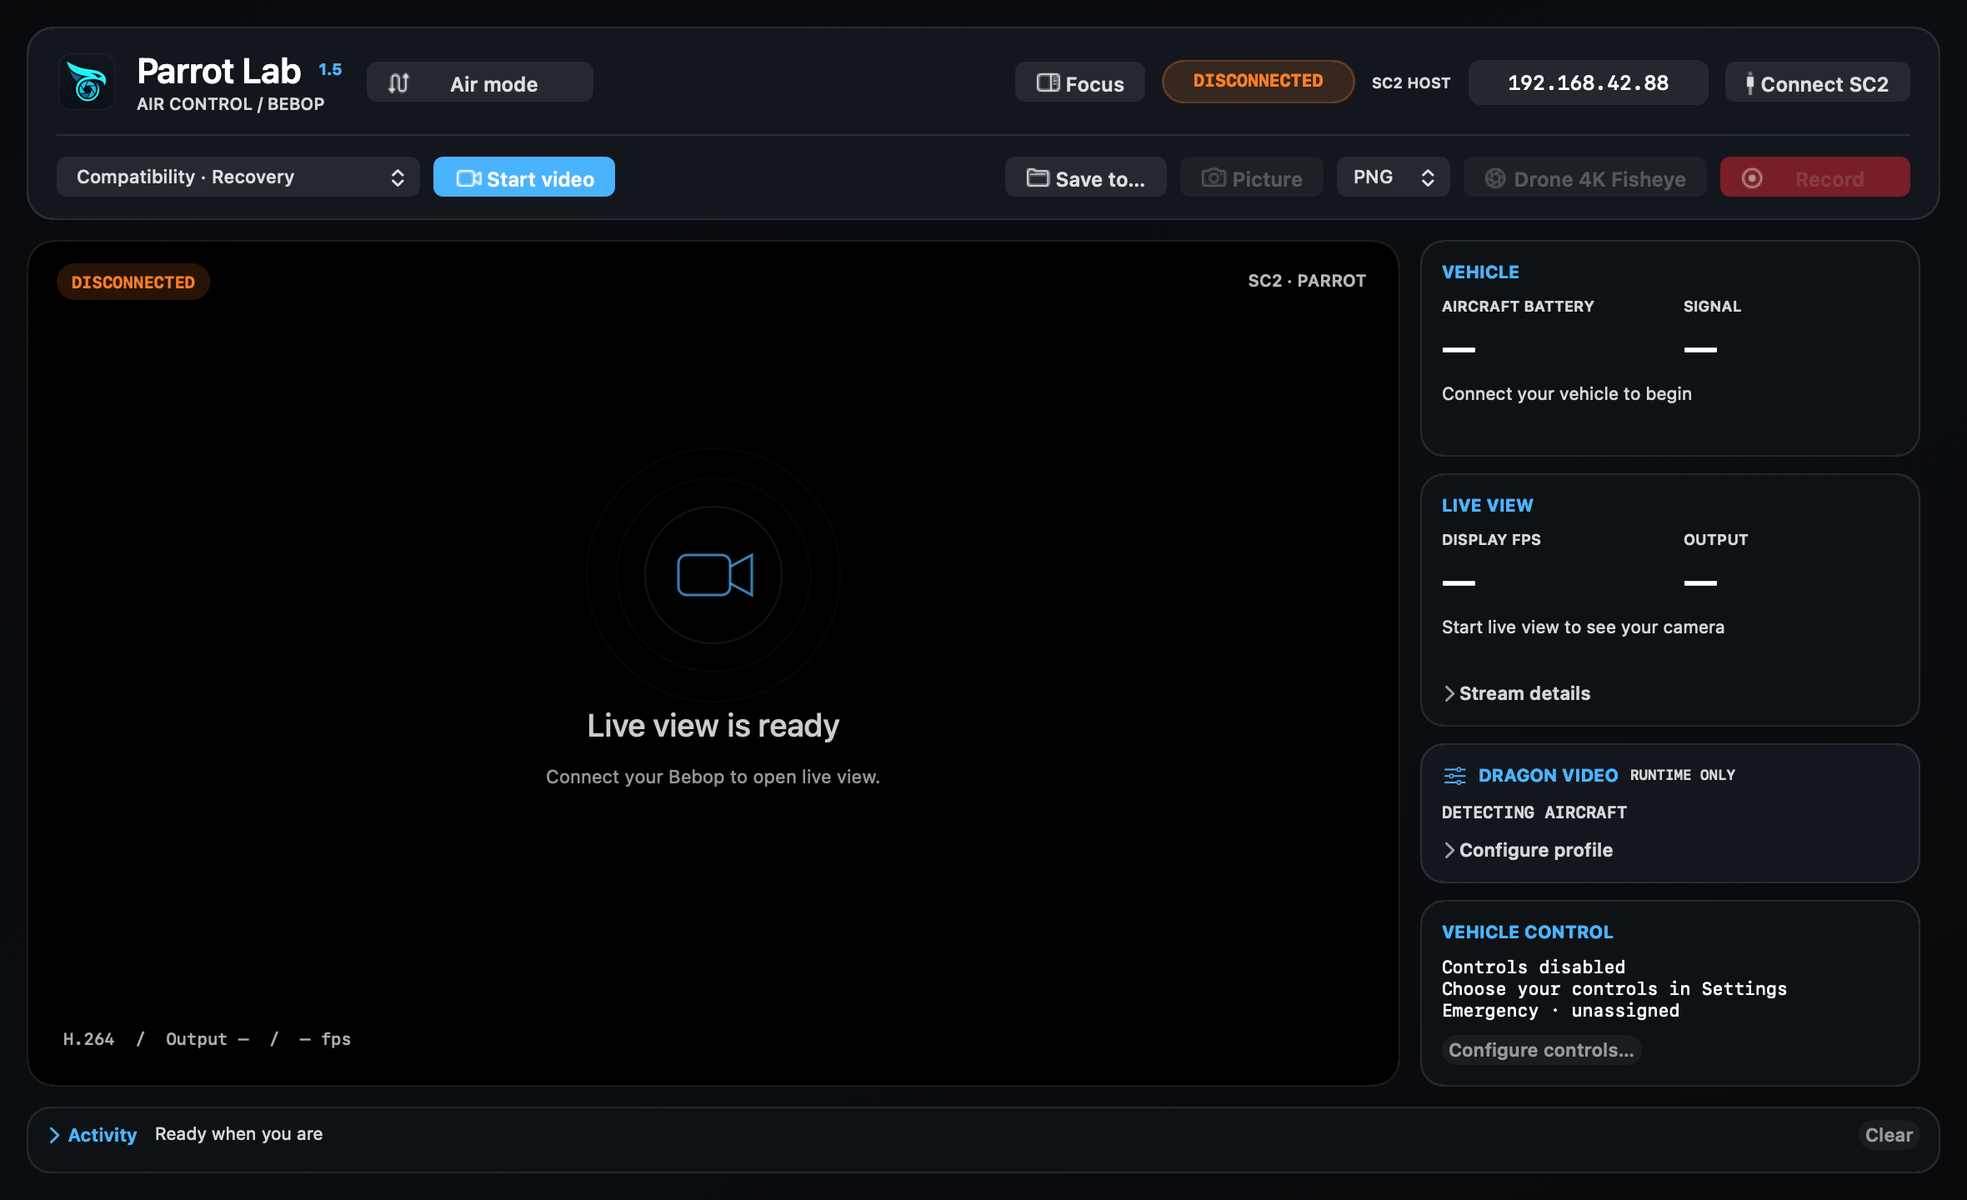
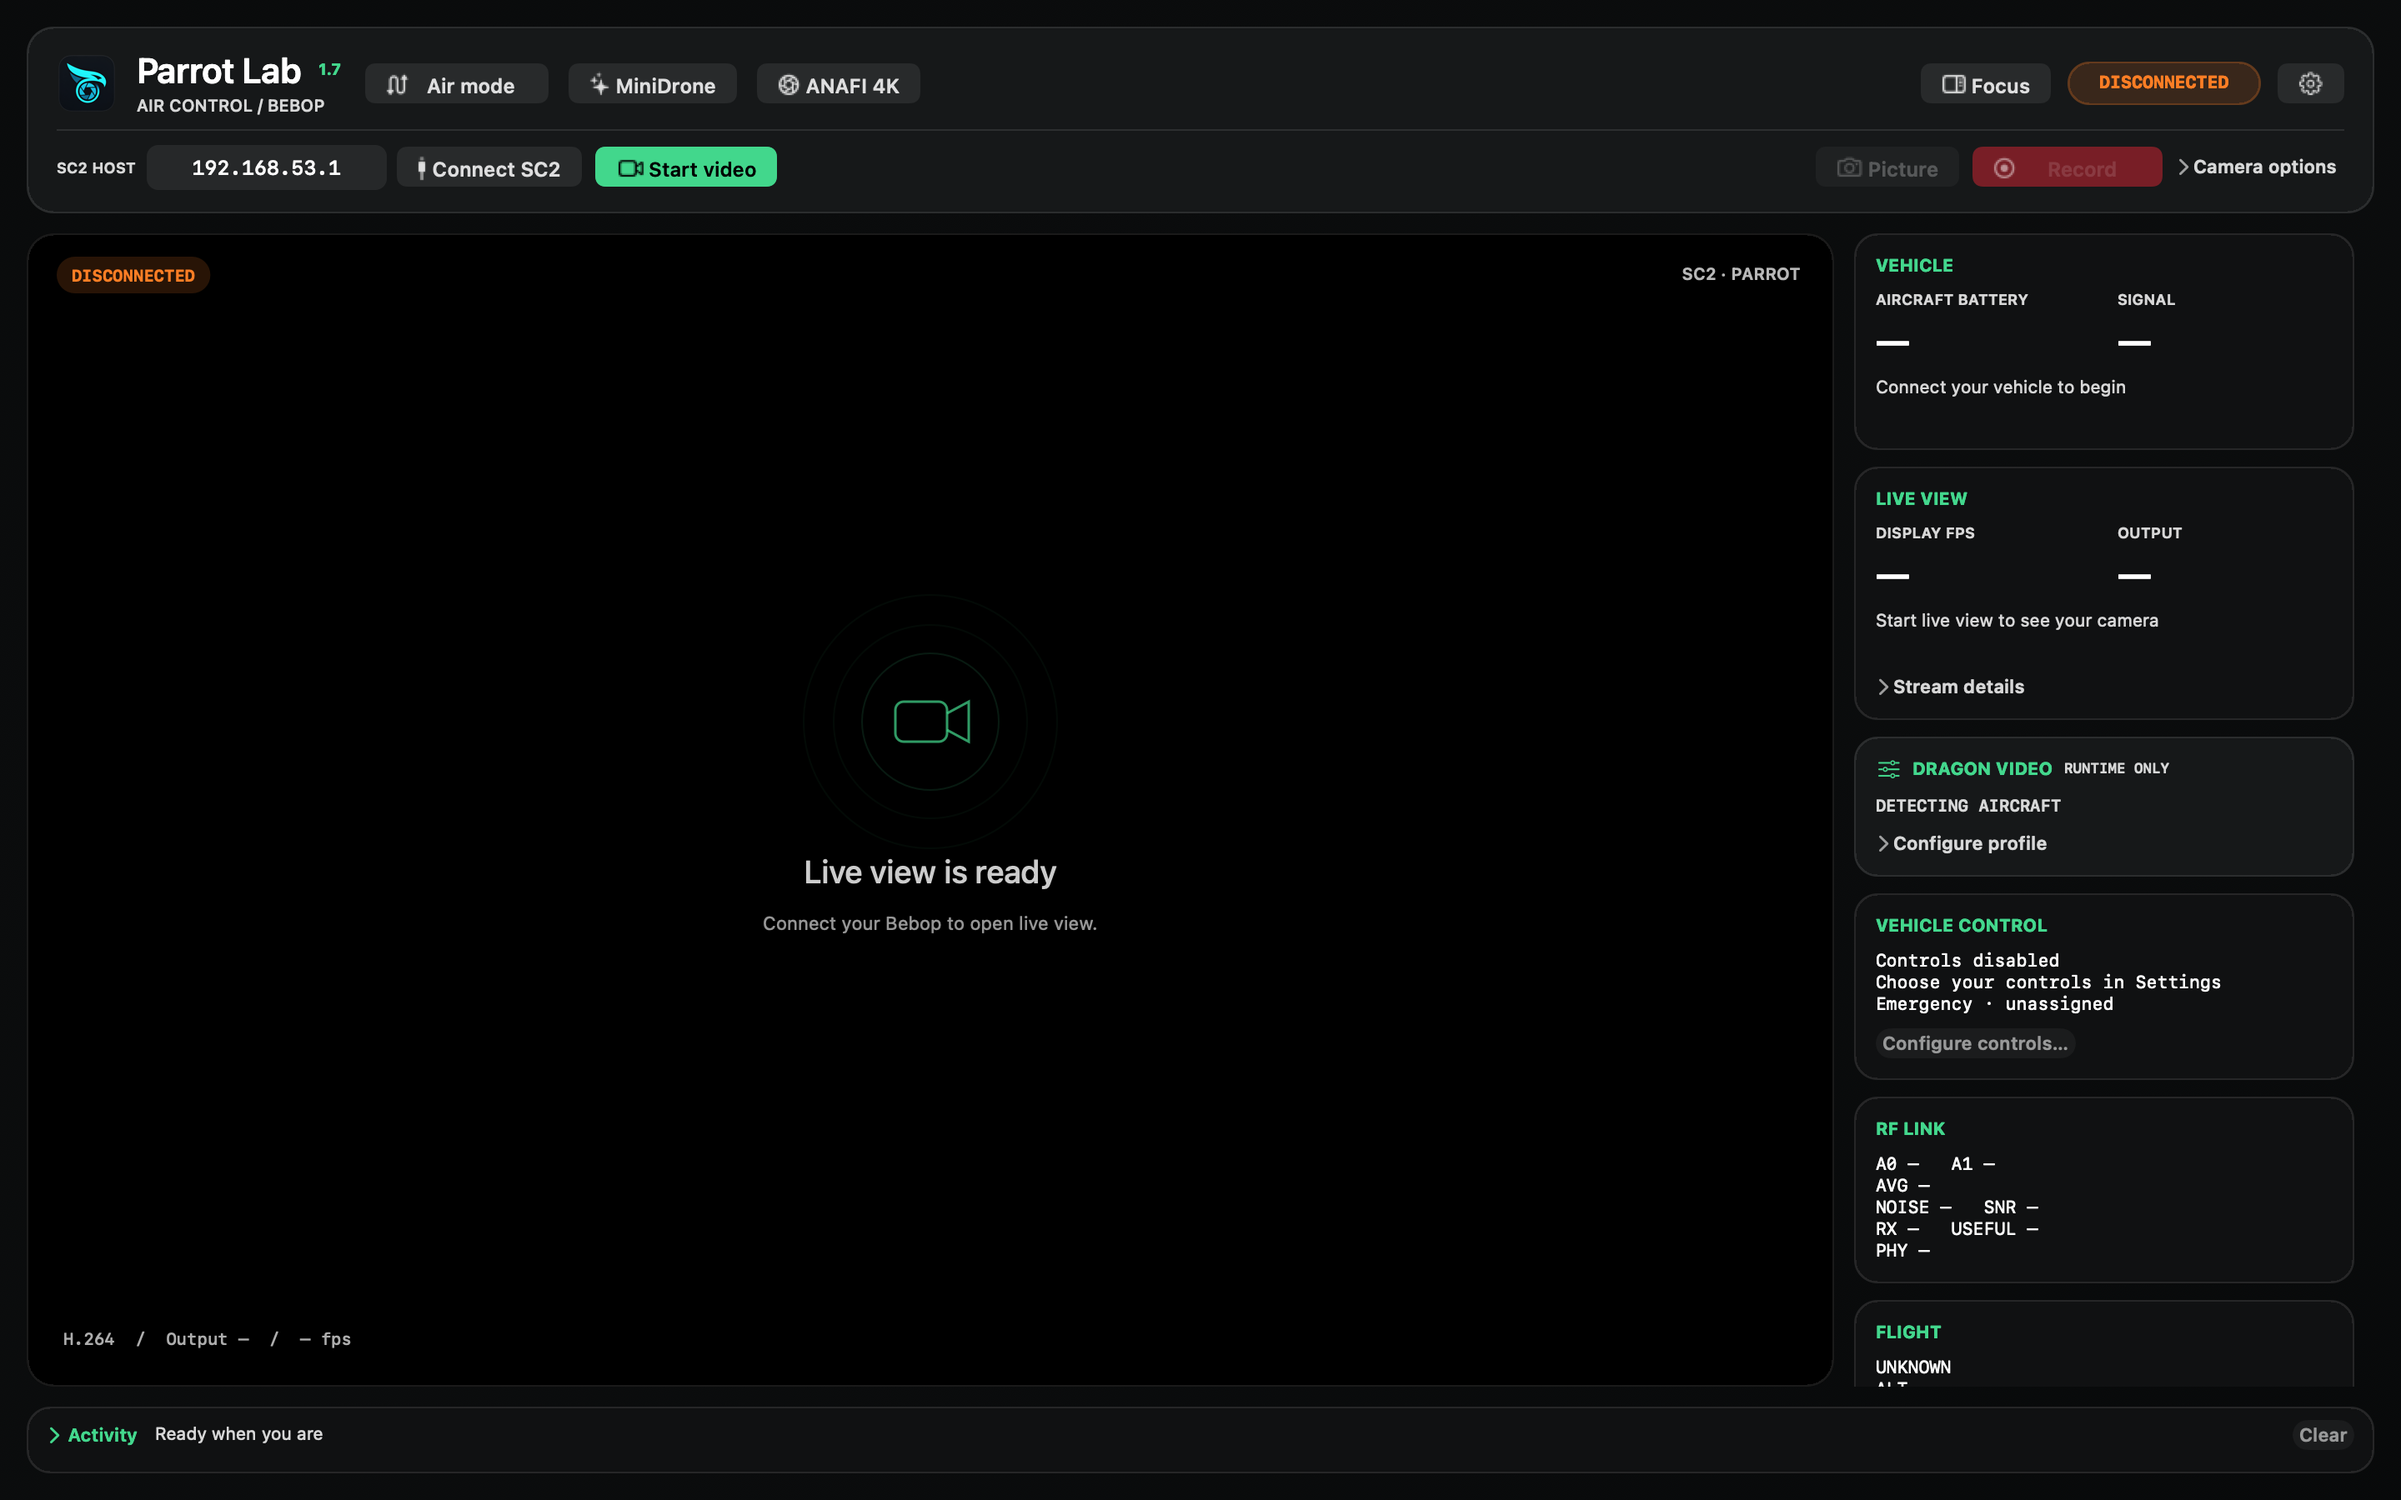
Refresh Air and Ground README screenshots for 1.7

diff --git a/README.md b/README.md
@@ -23,7 +23,7 @@ limitations, and [RELEASING.md](RELEASING.md) for packaging instructions.
 
 ANAFI and SC3 paths remain experimental. Flypad is currently unsupported.
 
-| Air workspace | Ground workspace |
+| Air workspace · 1.7 | Ground workspace · 1.7 |
 | --- | --- |
 | ![Parrot Lab Air workspace](docs/images/parrot-lab-air-mode.png) | ![Parrot Lab Ground workspace](docs/images/parrot-lab-ground-mode.png) |
 
